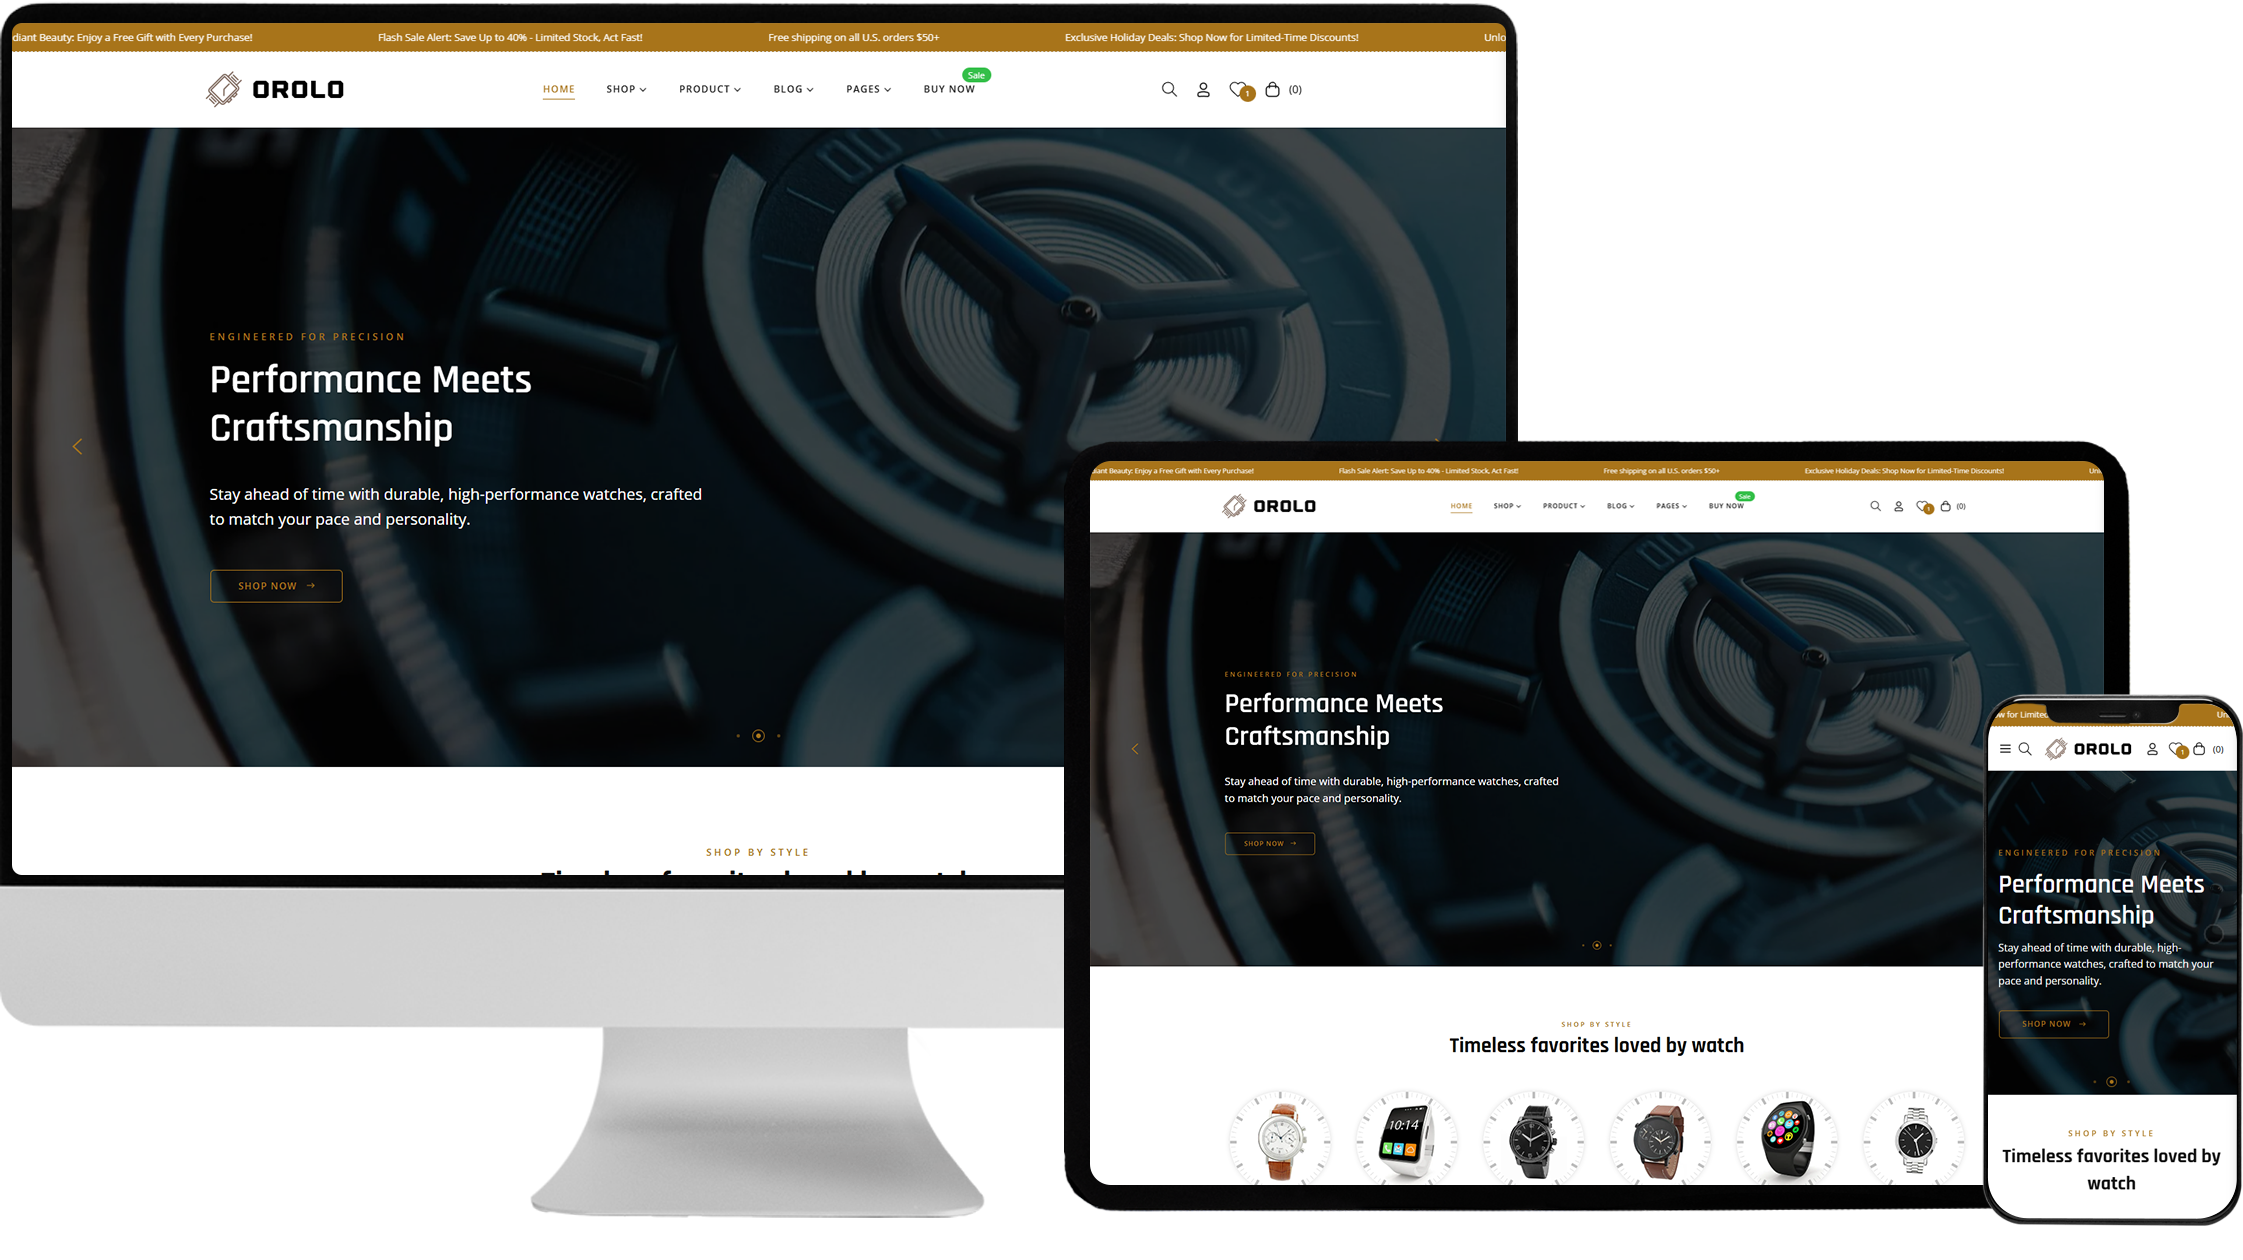
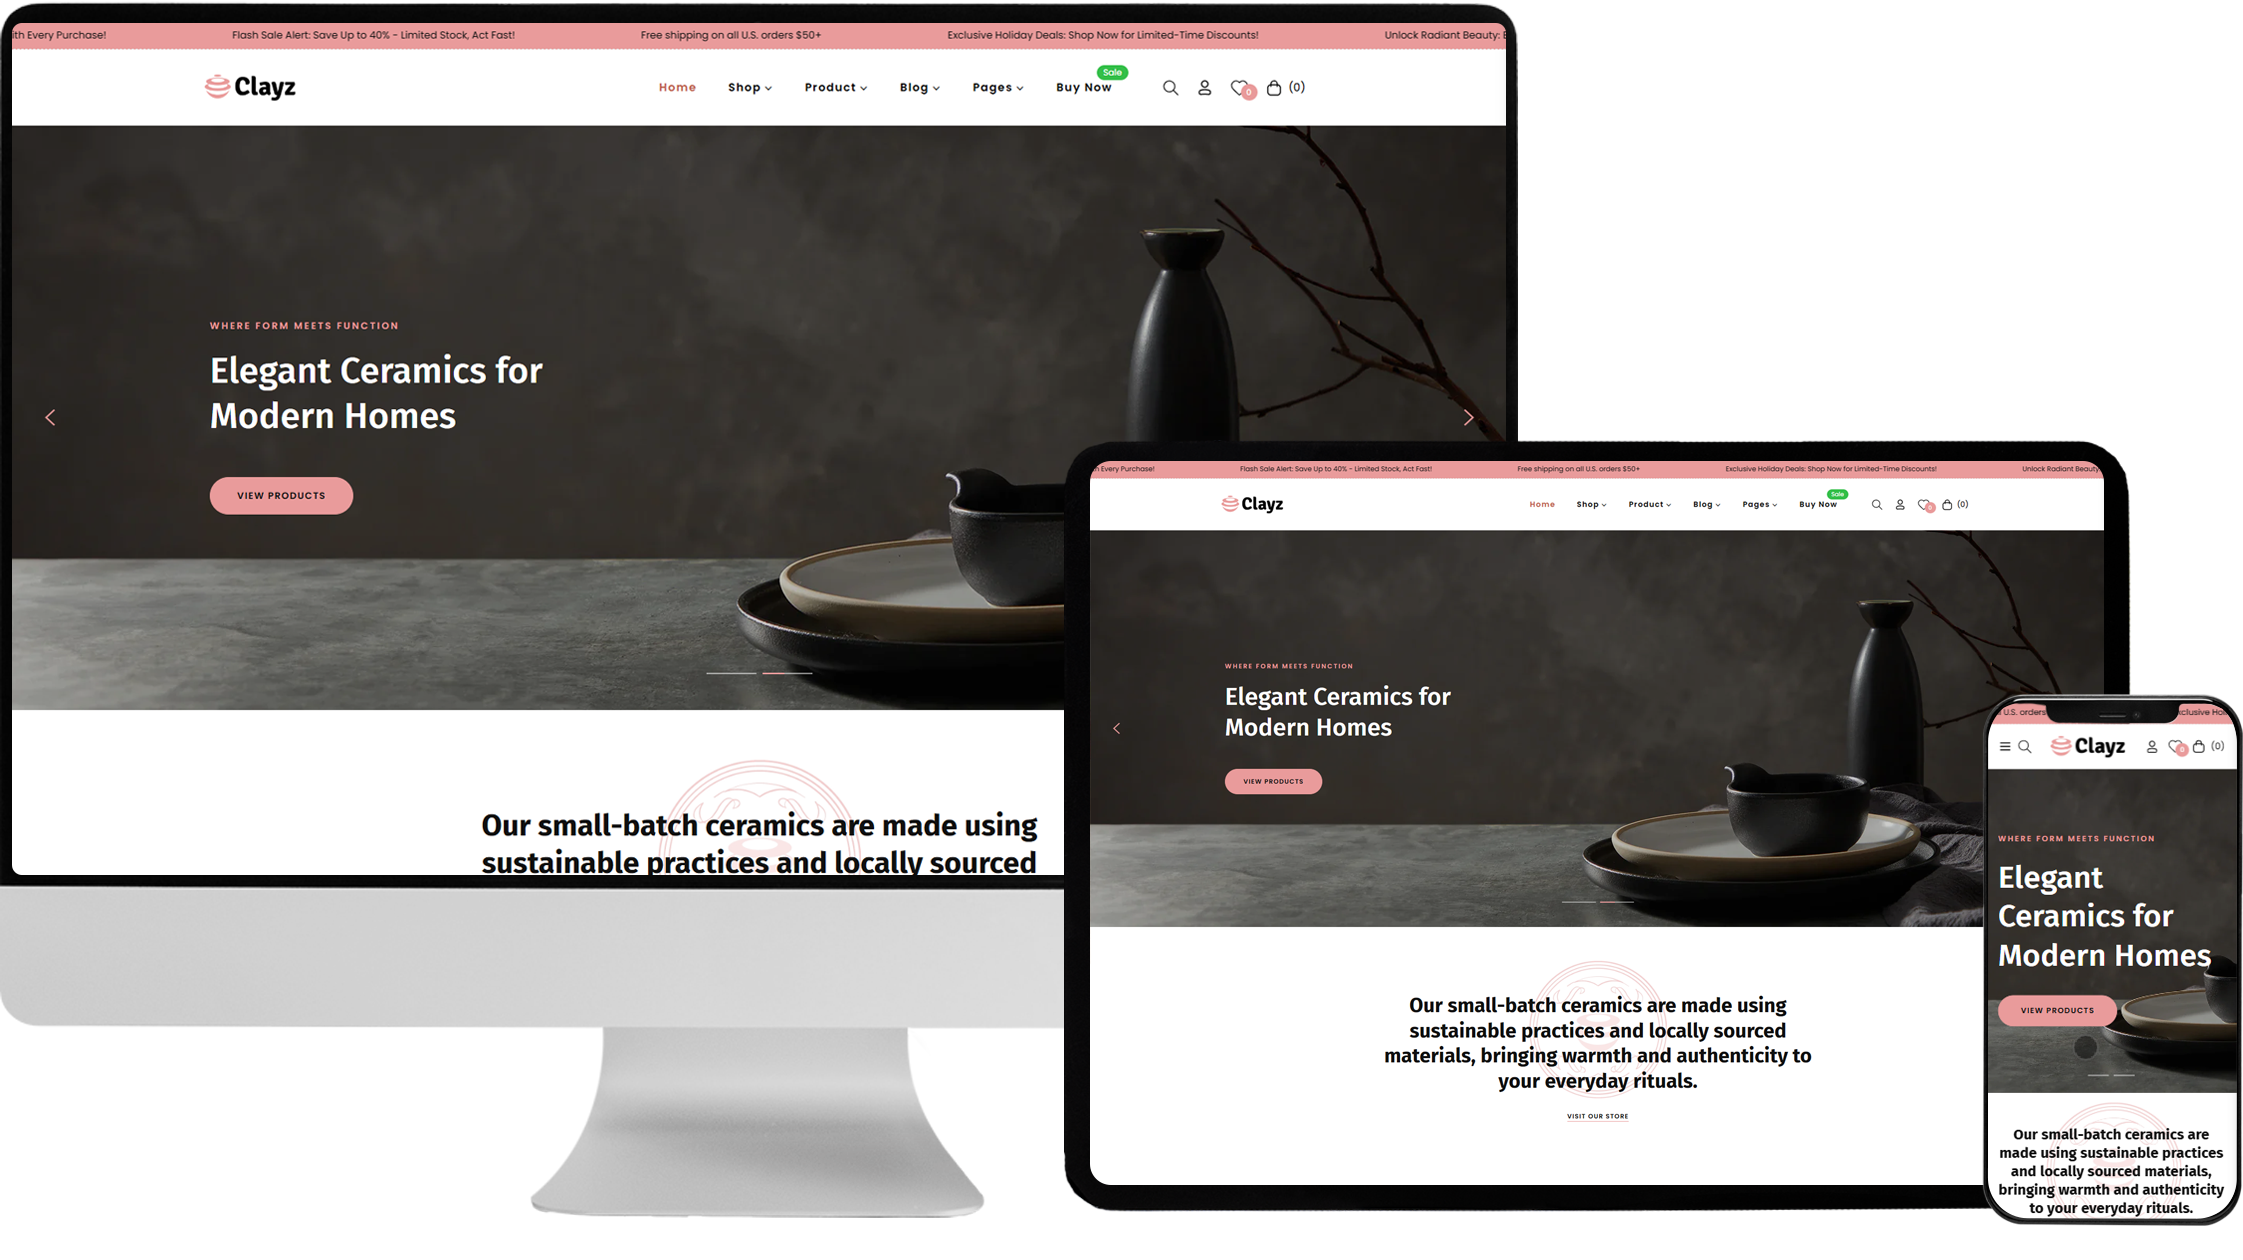
S
S

diff --git a/index.html b/index.html
@@ -8,7 +8,7 @@
     <meta http-equiv="X-UA-Compatible" content="IE=edge">
     <meta name="viewport" content="width=device-width, initial-scale=1">
     <!-- title -->
-    <title>Orolo - Luxury Watch Shopify Theme</title>
+    <title>Clayz - Ceramics & Pottery Decor Shopify 2.0 Theme</title>
     <meta name="description" content="A best stylish, creative, modern responsive theme for different eCommerce business or industries." />
     <meta name="keywords" content="organic food theme, shopify, eCommerce shopify theme, responsive, furniture wood, fashion, furniture, mobile, watches, electronics, computers accessories, toys, jewellery, restaurant accessories" />
     <meta name="author" content="qodex">
@@ -53,7 +53,7 @@
                             <div class="collapse navbar-collapse" id="navbar">
                                 <ul class="nav">
                                     <li class="land-link">
-                                        <form method="post" action="https://qx-orolo.myshopify.com/password" target="_blank" id="login_form" accept-charset="UTF-8" class="storefront-password-form dt-custom-button">
+                                        <form method="post" action="https://qx-clayz.myshopify.com/password" target="_blank" id="login_form" accept-charset="UTF-8" class="storefront-password-form dt-custom-button">
                                             <input type="hidden" name="form_type" value="storefront_password">
                                             <input type="hidden" name="utf8" value="✓">
                                             <div class="input-group password__input-group">
@@ -63,7 +63,7 @@
                                         </form>
                                     </li>
                                     <li class="land-link">
-                                        <form method="post" action="https://qx-orolo.myshopify.com/password" target="_blank" id="login_form" accept-charset="UTF-8" class="storefront-password-form dt-custom-button">
+                                        <form method="post" action="https://qx-clayz.myshopify.com/password" target="_blank" id="login_form" accept-charset="UTF-8" class="storefront-password-form dt-custom-button">
                                             <input type="hidden" name="form_type" value="storefront_password">
                                             <input type="hidden" name="utf8" value="✓">
                                             <div class="input-group password__input-group">
@@ -103,13 +103,13 @@
                     <div class="landing-themebuy">
                         <div class="section-title">
                             <h2 style="margin-bottom: 20px; font-size: 38px;">
-                                <span style="line-height: 1.2em;">Orolo - Luxury Watch Shopify Theme</span>
+                                <span style="line-height: 1.2em;">Clayz - Ceramics & Pottery Decor<br> Shopify 2.0 Theme</span>
                                 <span>Shop Password : <i>1</i></span>
                             </h2>
                         </div>
                         <div class="buy-button" style="text-align: center;">
                             <a href="#" style="margin: 0 10px;">
-                                <form method="post" action="https://qx-orolo.myshopify.com/password" target="_blank" id="login_form" accept-charset="UTF-8" class="storefront-password-form dt-custom-button">
+                                <form method="post" action="https://qx-clayz.myshopify.com/password" target="_blank" id="login_form" accept-charset="UTF-8" class="storefront-password-form dt-custom-button">
                                     <input type="hidden" name="form_type" value="storefront_password">
                                     <input type="hidden" name="utf8" value="✓">
                                     <div class="input-group password__input-group">
